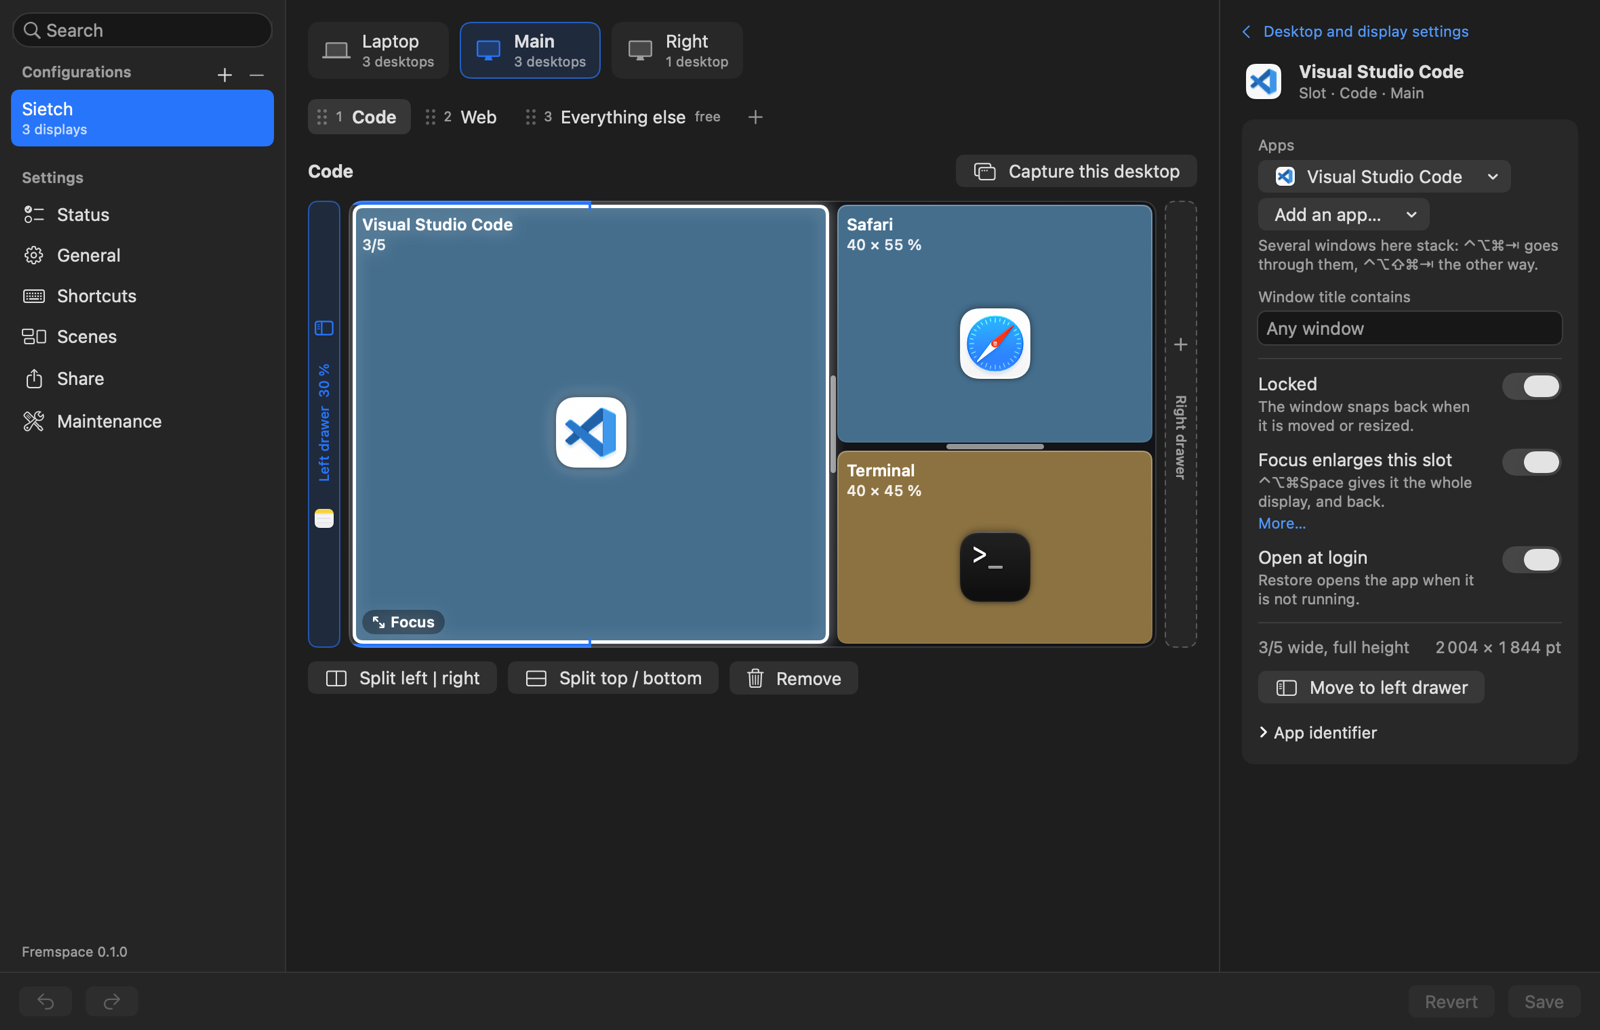
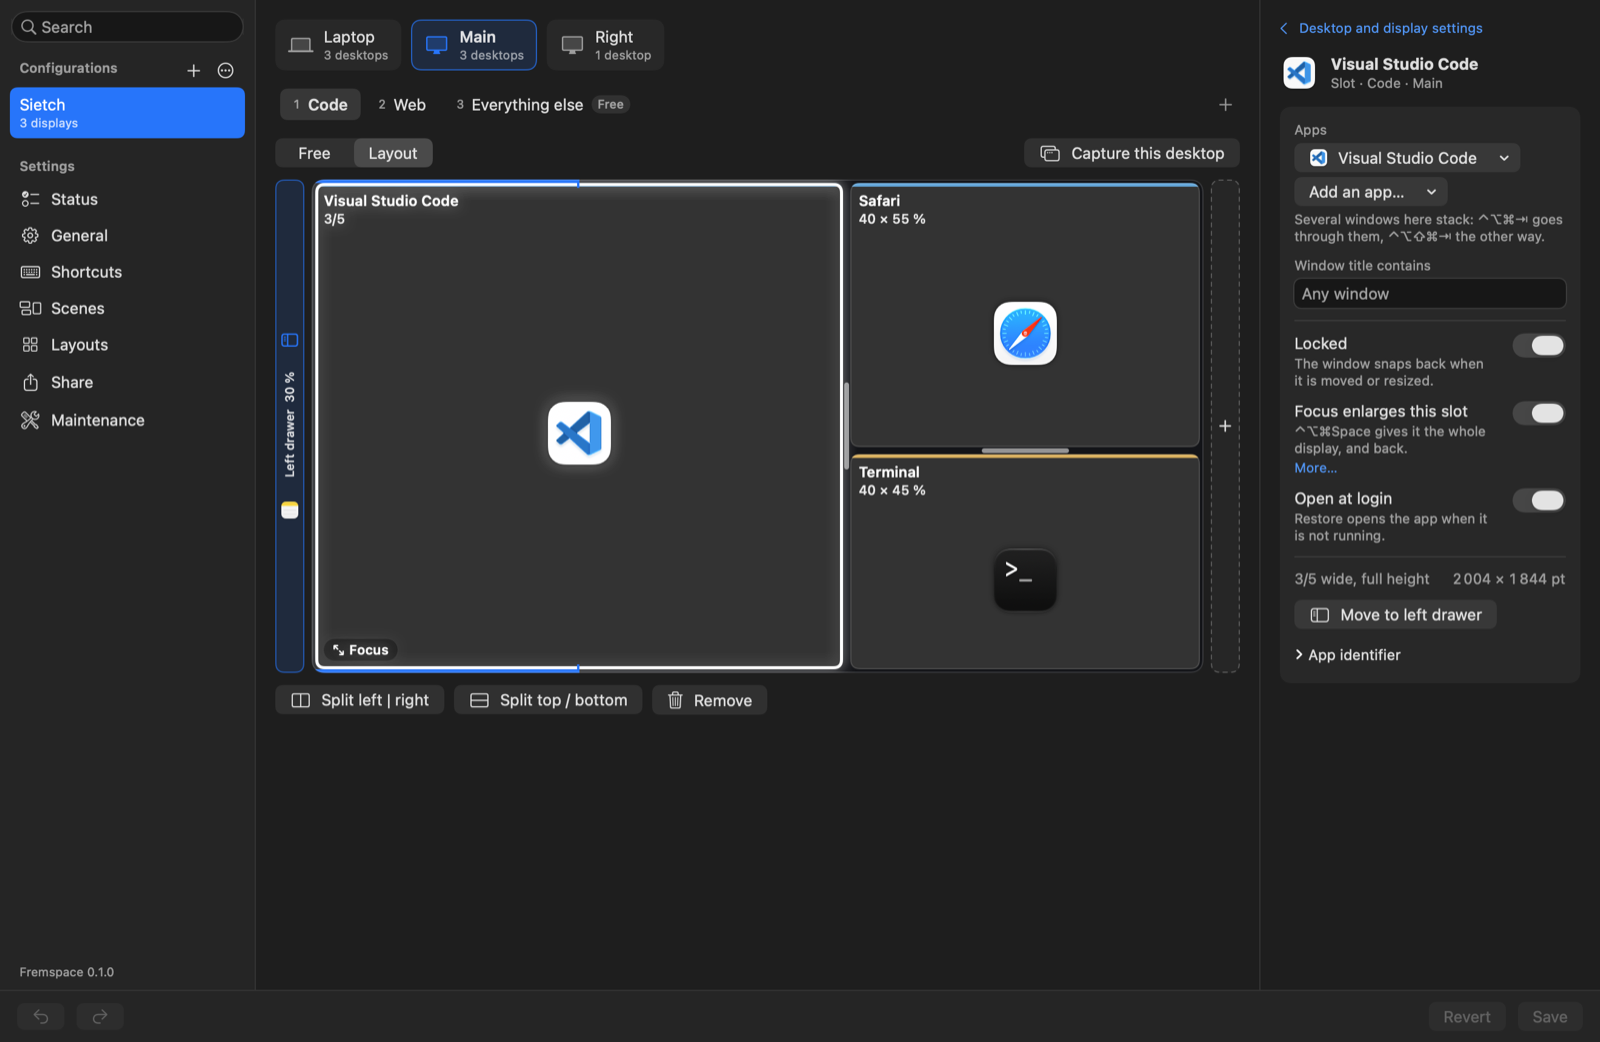
site: the editor as it is now, and a line for the Layouts page
The picture of the editor and the image shown for a shared link were of the window before its
menu bar, its neutral tiles and the Layouts page.

Claude-Session: https://claude.ai/code/session_01VMwKwEVCwAXnu5koFwK5dW

diff --git a/site/index.html b/site/index.html
@@ -229,6 +229,7 @@
         <p class="lede">Open the editor from the menu bar. Make a configuration from the connected displays, split a desktop into slots, choose the apps, Save. Nothing changes until you save.</p>
         <dl class="rest">
           <div><dt>Capture this desktop</dt><dd>starts a layout from the windows as they are now.</dd></div>
+          <div><dt>Layouts</dt><dd>eight ready-made ones to start from, and anybody's desk as a file you see drawn before you add it.</dd></div>
           <div><dt>Scenes</dt><dd>switch several displays to their desktops at once.</dd></div>
           <div><dt>Status</dt><dd>a page that lists what needs attention, and says so when a macOS update broke something.</dd></div>
           <div><dt>Links</dt><dd>for launchers, button decks and scripts: <code>open -g fremspace://desktop/Web</code></dd></div>
@@ -236,7 +237,7 @@
         </dl>
       </div>
       <figure class="editor-shot">
-        <img src="assets/editor.png" alt="The Fremspace editor: a desktop split into three slots, with the apps of each slot and the options of the selected one." width="1600" height="1030" loading="lazy">
+        <img src="assets/editor.png" alt="The Fremspace editor: a desktop split into three slots, with the apps of each slot and the options of the selected one." width="1600" height="1042" loading="lazy">
       </figure>
     </div>
   </section>
